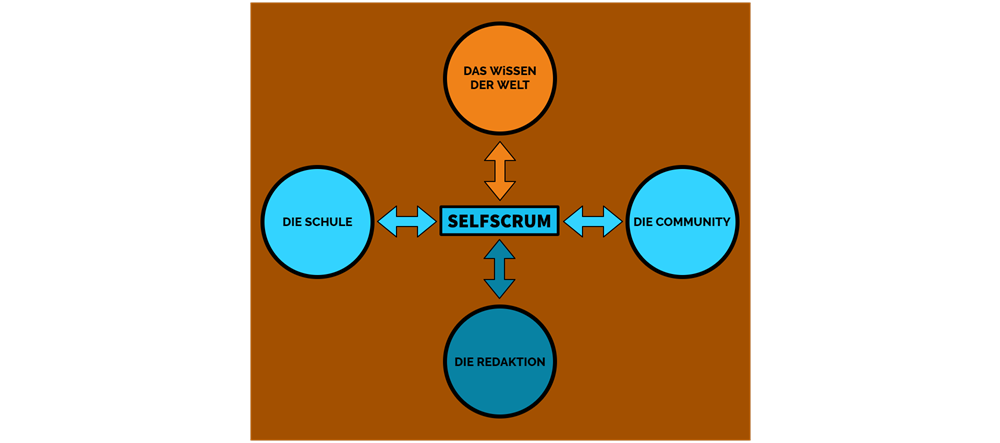
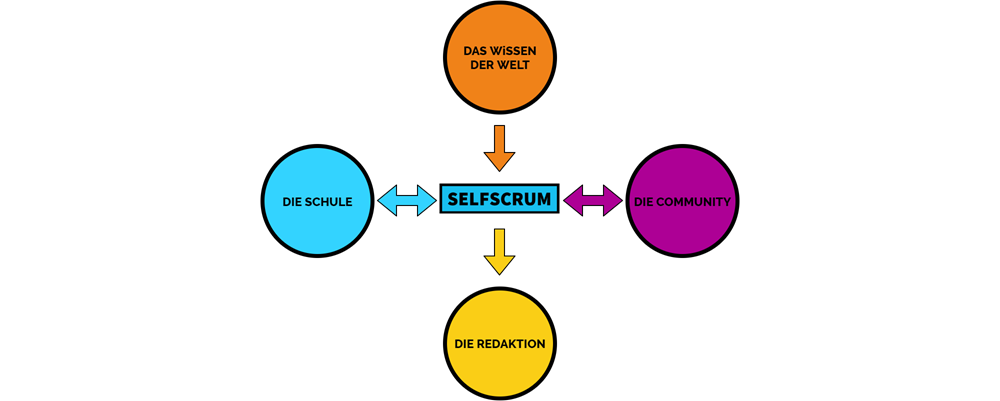
new actors img

diff --git a/community/community.md b/community/community.md
@@ -6,7 +6,7 @@ description: Wer bei SELFSCRUM mitarbeitet
 
 Ein Open Source Projekt benötigt vor allem eines: eine lebendige Community von Freiwilligen, die ihre Zeit und Energie dafür einsetzen, einen Prozess zu durchlaufen und ein Ergebnis zu erzielen. Diese Community hat ihr Zuhause bei [community.selfscrum.org](https://community.selfscrum.org)
 
-![Die Akteure im SELFSCRUM Entwicklungsmodell](../.gitbook/assets/actors%20%281%29.png)
+![Die Akteure im SELFSCRUM Entwicklungsmodell](./actors.png)
 
 Es liegt in der Definition von SELFSCRUM, dass es nie ein "fertiges" Ergebnis geben wird, sondern dass immer wieder neue Erkenntnisse dazu kommen, die eine Weiterentwicklung fordern und ermöglichen.
 
@@ -17,7 +17,7 @@ Um diese Entwicklung zu gestalten, folgen wir diesem Rhythmus:
 3. Veröffentlichen
 4. Reflektieren
 
-einen konkreten, getakteten Prozess gibt es momentan leider noch nicht. Wer hier Aufbauarbeit leisten möchte, ist herzlich willkommen!
+Einen konkreten, getakteten Prozess gibt es momentan leider noch nicht. Wer hier Aufbauarbeit leisten möchte, ist herzlich willkommen!
 
 ## Sammeln
 
